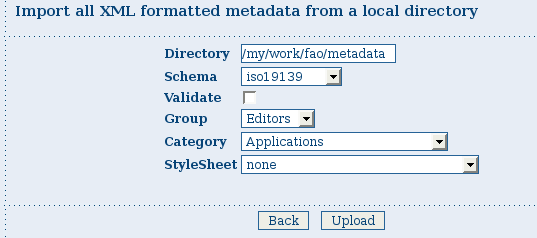
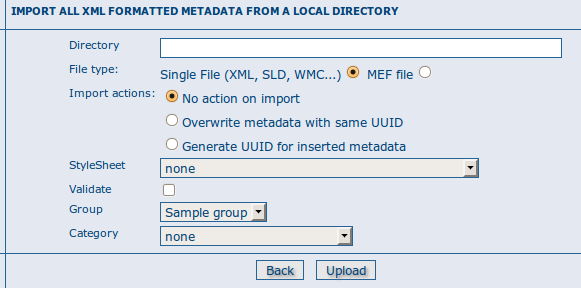
Update documentation : Import facilities and thesaurus sections.
Fix typo (add missing colon).

git-svn-id: https://geonetwork.svn.sourceforge.net/svnroot/geonetwork/trunk@6332 ff403467-3f20-0410-99e5-ff581e626a08

diff --git a/docs/eng/users/source/admin/import/index.rst b/docs/eng/users/source/admin/import/index.rst
@@ -9,7 +9,7 @@ Import facilities
 File import
 -----------
 
-The file import facility allows you to import metadata records in XML format or MEF format or copy/paste XML metadata to insert. In order to use this facility, you have to be logged in as an administrator. After the login step, go to the administration page and select the Metadata insert link.
+The file import facility allows you to import metadata records in XML format or MEF format or copy/paste XML metadata to insert. In order to use this facility, you have to be logged in as an editor. After the login step, go to the administration page and select the Metadata insert link.
 
 Clicking the link, you will open the metadata import page. You have to specify a set of parameters to make the import working. Depending on the insert type you will perform:
 
@@ -56,7 +56,6 @@ XML metadata insert
 
 Choosing the radio button Copy/Paste, you could perform an XML insert, directly copy/pasting
 your metadata record. Please refer to XML import for options you could use.
-Note that it is not possible to perform actions during import with this method.
 
 Batch import
 ------------
@@ -74,15 +73,12 @@ Clicking the link will open the batch import page. You have to specify a set of 
 They are:
 
 Directory This is the full path on the server’s file system of the directory
-to scan. GeoNetwork will look for and try to import all XML files present into
-this directory. It is important to notice that this is the directory on the
-*server* machine and *not* on the
-client of the user that is doing the import. All metadata files present into the
-import directory *must* have the same schema format. Schema
-GeoNetwork supports only some metadata formats so you have to specify the schema
-of the metadata you want to import. If a metadata does not belong to the
-selected schema, the entire operation will be aborted. Validate This is a simple
-validation step that you can choose to perform. The metadata is validated
+to scan. GeoNetwork will look for and try to import all XML or MEF files present 
+into this directory. It is important to notice that this is the directory on the
+*server* machine and *not* on the client of the user that is doing the import.
+Import actions options are also available from bacth import (please refer to
+XML import for options you could use). Validate This is a simple validation 
+step that you can choose to perform. The metadata is validated
 against its schema. Group You have to select a group to associate to the
 imported metadata. Usually the group is the creator of the metadata set.
 Category You can specify one category to associate to your metadata in order to

diff --git a/docs/eng/users/source/admin/thesaurus/index.rst b/docs/eng/users/source/admin/thesaurus/index.rst
@@ -103,21 +103,30 @@ Use the textbox and the type of search in order to search for keywords.
 Metadata editing: adding keywords
 ---------------------------------
 
-When editing metadata in ISO or Dublin core, the keyword fields auto-complete when
-editor fill the fields. Keywords available in all thesaurus know by the current node
-are returned. Editor could select one of the list or could type any other
-keywords.
+When editing metadata in ISO, it allows editors to:
+- do one or more searches in all thesaurus registered in the catalogue.
+- select one or more keywords added to the selected items list (using arrows or drag & drop) on the right.
+- add the selected keywords directly into metadata, grouping keywords by thesaurus.
 
-.. figure:: thesaurus-EditKeywords.png
+The search interface allows editors to choose the maximum number of keywords to returns, 
+and the thesaurus to search into (default is all).
 
-    *Auto-complete in keywords editor*
+.. figure:: thesaurus-KeywordSelection.png
+
+    *Keyword selection interface (editing mode)*
+
+.. figure:: thesaurus-KeywordView.png
+
+    *Keyword selection (view mode)*
 
 Search criteria: keywords
 -------------------------
 
-In the advanced search interface, the keyword field will proposed all keywords
-used in the metadata. These keywords are indexed by Lucene on creation/update of
-metadata. The number of metadata linked to all keywords available in the index are
+In the advanced search interface, search for keyword is available.
+
+By default, the keyword field will proposed all keywords used in the metadata. 
+These keywords are indexed by Lucene on creation/update of metadata. 
+The number of metadata linked to all keywords available in the index are
 display. User could type in the keyword field or click the icon to get the list of
 keywords available.
 
@@ -128,5 +137,14 @@ keywords available.
 .. figure:: thesaurus-SearchKeywordAutocomp.png
 
     *Auto-complete function in thesaurus search interface*
+
+By configuring the *config-gui.xml* file in the WEB-INF directory, search for keyword 
+using the advanced keyword selection panel is available as in the metadata editor::
+  
+ <search>
+  <!-- Display or not keyword selection panel in advanced search panel 
+   <keyword-selection-panel/> 
+  -->
+ </search>
 
 

diff --git a/docs/eng/users/source/quickstartguide/installing/index.rst b/docs/eng/users/source/quickstartguide/installing/index.rst
@@ -75,7 +75,7 @@ If you use Windows, the following steps will guide you to complete the installat
 2. Follow the instructions on screen. You can choose to install sample data, install the embedded map server (based on `GeoServer <http://www.geoserver.org>`_ and the CSW 2.0.1 test client. Developers may be interested in installing the source code and installer building tools. Full source code can be found in the GeoNetwork SubVersion code repository.
 3. After completion of the installation process, a 'GeoNetwork desktop' menu will be added to your Windows Start menu under 'Programs'
 4. Click Start\>Programs\>GeoNetwork desktop\>Start server to start the Geonetwork opensource Web server. The first time you do this, the system will require about 1 minute to complete startup.
-5. Click Start\>Programs\>Geonetwork desktop\>Open GeoNetwork opensource to start using GeoNetwork opensource, or connect your Web browser to `http://localhost8080/geonetwork/ <http://localhost8080/geonetwork/>`_
+5. Click Start\>Programs\>Geonetwork desktop\>Open GeoNetwork opensource to start using GeoNetwork opensource, or connect your Web browser to `http://localhost:8080/geonetwork/ <http://localhost:8080/geonetwork/>`_
 
 .. figure:: installer.png
 
